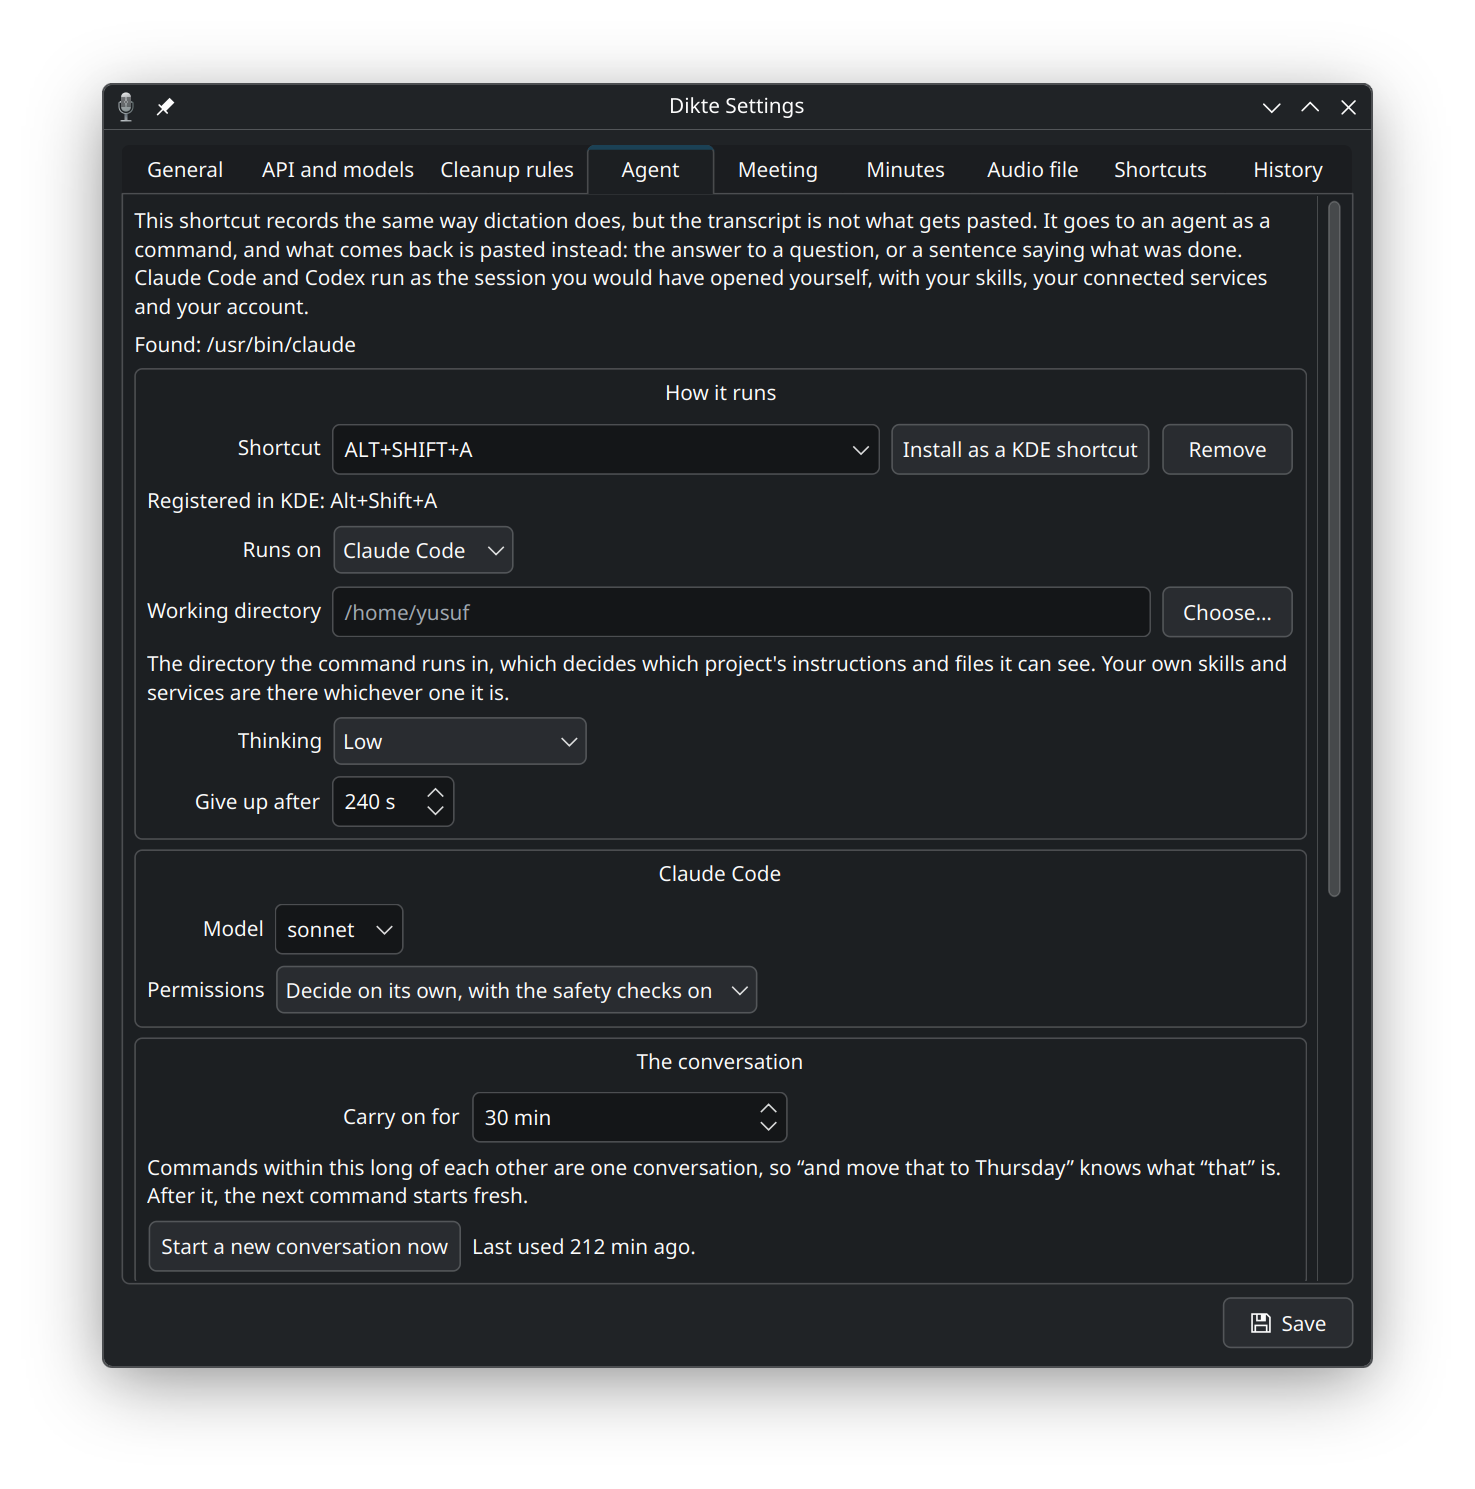
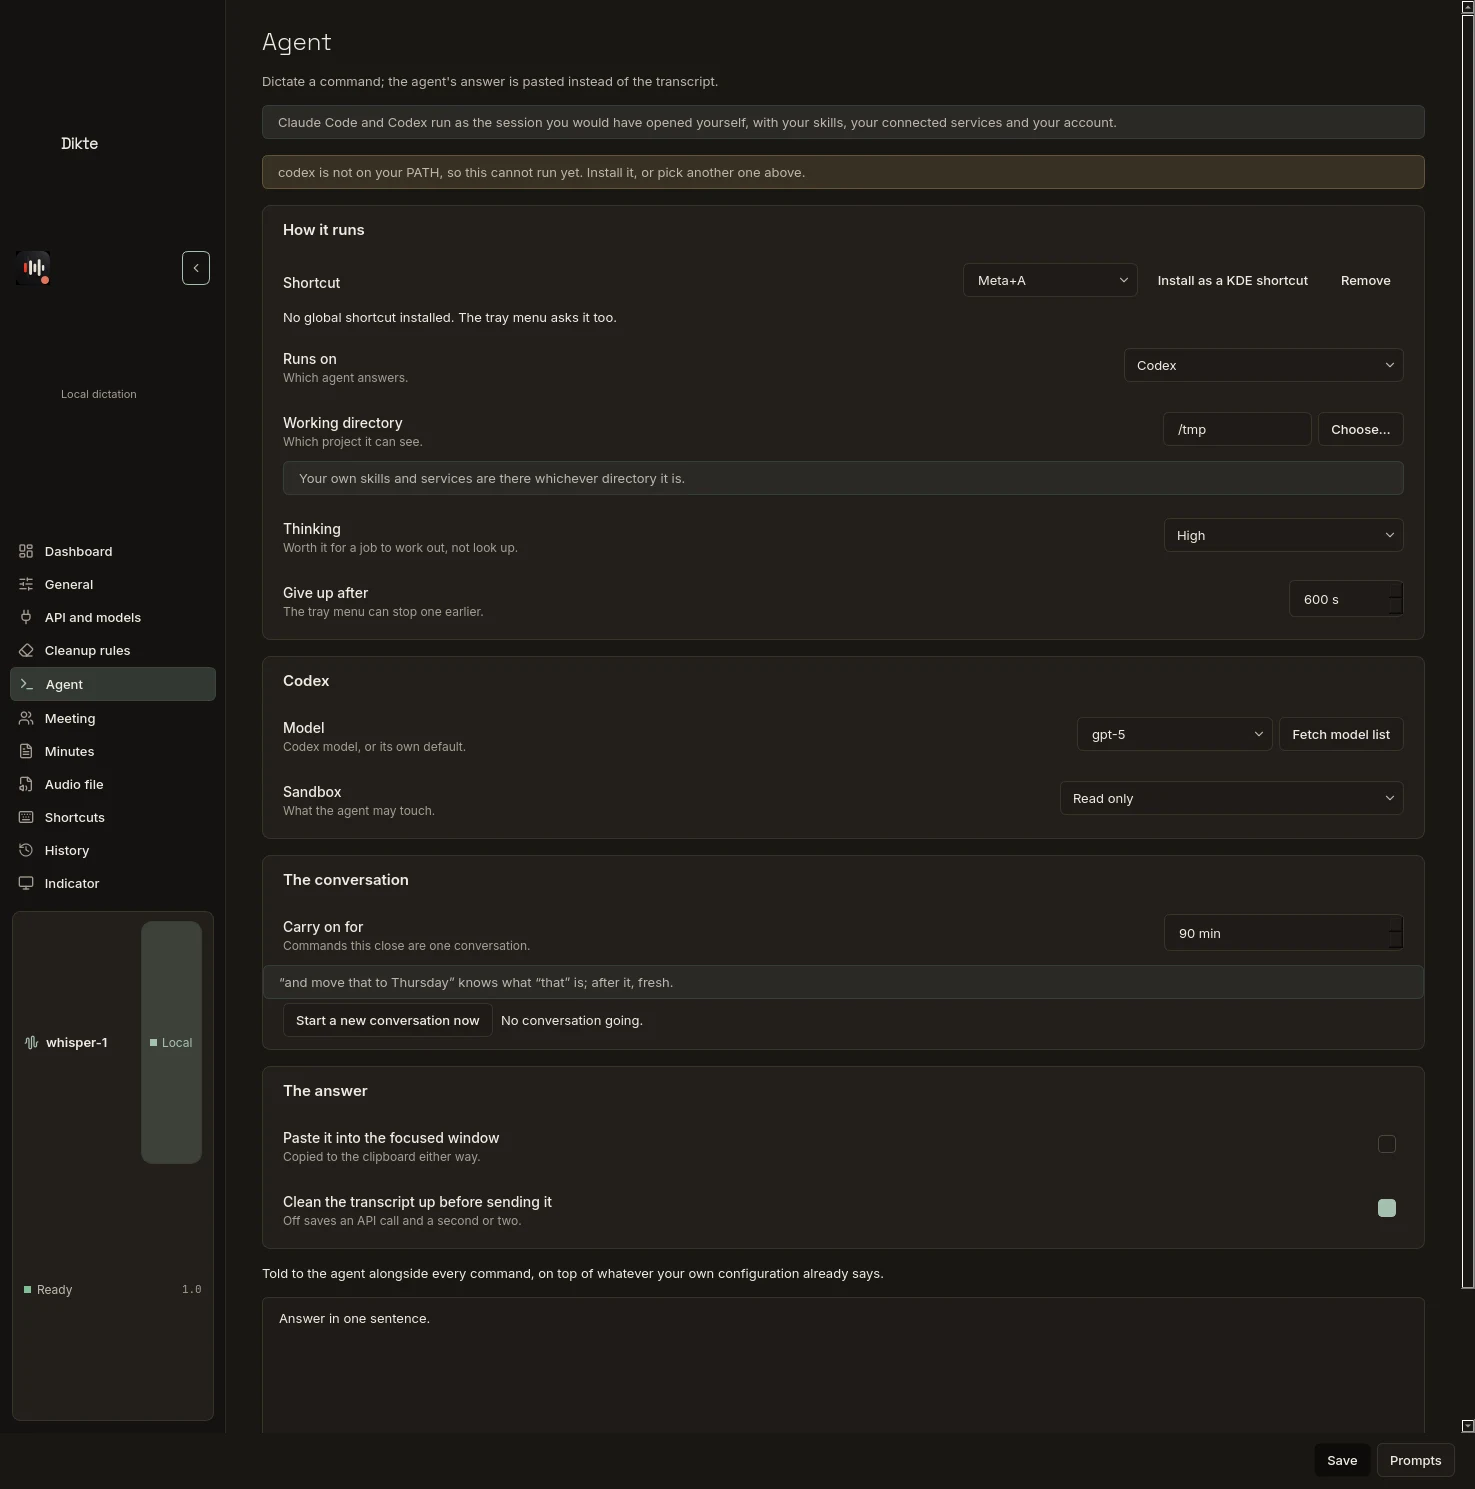
docs(readme): the READMEs show this product again, and one command keeps them honest
The seven images both READMEs embed were taken **2026-08-01**, before the return to Warm
Technical Minimalism. They showed a retired palette in a window shape the product no
longer has, so the first thing a reader sees was the one part of the repository that was
not about this product any more.

`tools/shoot_ui.py --readme` re-shoots them from the same window, fixtures and theme
plumbing the surface tour already uses: dark and English (what the embedded set has
always been — both READMEs point at the same seven files), 1475x1489 (the geometry every
previous file had, which the `<img>` tags are sized for), written straight to
`docs/*.webp` through Qt's own WebP encoder. No new dependency, and the `--check`
manifest is untouched: these seven are a subset of the pages the tour already captures.

**Reviewing the frames is what found the defect, and it was a fixture, not the product.**
The API page rendered three answers about one file: the provider row said
"Ready: gemma-3-4b-it-Q4_K_M.gguf", the model picker said "(downloaded)", and a red line
directly underneath said the same file "has not been downloaded yet". The cause is that
the tour patched `installed_llm_models()` — a list — while `ggml.have_model()` is a real
file check against a sandbox that holds no model files. The tour had been photographing
that contradiction in every run of the full surface tour too; one mock now makes the
three widgets agree.
[…]

diff --git a/tools/shoot_ui.py b/tools/shoot_ui.py
@@ -205,6 +205,30 @@ def expected_names():
     return [f"page{i:02d}" for i in range(page_count())] + list(NAMED_SURFACES)
 
 
+# The images both READMEs embed, by the shell page they show. Kept beside the rest of the
+# tour because they are the same claim — "this is what the product looks like today" —
+# and they had stopped making it: the embedded files were taken 2026-08-01, before the
+# return to Warm Technical Minimalism, so the README was showing a retired palette in a
+# window shape the product no longer has.
+README_SHOTS = (
+    ("settings-general", 1),
+    ("settings-api", 2),
+    ("settings-cleanup", 3),
+    ("settings-agent", 4),
+    ("settings-meeting", 5),
+    ("settings-audio-file", 7),
+    ("settings-shortcuts", 8),
+)
+# Every embedded file has been 1475x1489 since the first set, and the READMEs size their
+# <img> tags for it. A README is not the place to reflow a layout.
+README_SIZE = (1475, 1489)
+# Dark and English, which is what the embedded set has always been: both READMEs point at
+# these same seven files, so a Turkish shot would be wrong in one of the two.
+README_THEME = "dark"
+README_LANG = "en"
+WEBP_QUALITY = 88
+
+
 def _is_blank(path):
     """True when a frame holds a single colour, whatever the colour is."""
     from PyQt6.QtGui import QImage
@@ -295,7 +319,7 @@ def page_height(window, base=700):
     return needed
 
 
-def shoot(app, widget, path, width=None, height=None):
+def shoot(app, widget, path, width=None, height=None, quality=None):
     widget.show()
     if width is not None and height is not None:
         widget.resize(width, height)
@@ -303,10 +327,39 @@ def shoot(app, widget, path, width=None, height=None):
     widget.update()
     app.processEvents()
     app.processEvents()
-    ok = widget.grab().save(path)
+    frame = widget.grab()
+    # `quality` is the WebP encoder's; PNG has no such knob and Qt ignores it there.
+    ok = frame.save(path, None, quality) if quality is not None else frame.save(path)
     if not ok:
         raise RuntimeError(f"grab().save failed for {path}")
     return path
+
+
+def shoot_readme(app, conf, out_dir, size=README_SIZE):
+    """Write the images the READMEs embed, at the size they embed them.
+
+    The tour's own frames are 1000 px wide and exactly as tall as each page, because the
+    check that reads them asks whether a surface was drawn. The README shows one fixed
+    near-square window per tab in a grid, which is what these files have always been.
+    Same window and same fixtures, one fixed size instead of a measured one.
+    """
+    conf["ui_theme"] = README_THEME
+    theme.apply(README_THEME)
+    i18n.set_language(README_LANG)
+
+    window = DashboardWindow(conf)
+    written = []
+    for name, index in README_SHOTS:
+        window.resize(*size)
+        window.shell.set_page(index)
+        app.processEvents()
+        path = os.path.join(out_dir, f"{name}.webp")
+        shoot(app, window, path, size[0], size[1], quality=WEBP_QUALITY)
+        written.append(path)
+    window.close()
+    window.deleteLater()
+    app.processEvents()
+    return written
 
 
 def build_prompt_creator(parent):
@@ -348,13 +401,20 @@ def build_prompt_creator(parent):
 
 def main():
     parser = argparse.ArgumentParser()
-    parser.add_argument("--out", required=True)
+    parser.add_argument("--out", help="where the frames go; required unless --readme")
     parser.add_argument("--themes", default="light,dark")
     parser.add_argument("--langs", default="en,tr")
+    parser.add_argument("--readme", action="store_true",
+                        help="write the seven images the READMEs embed, into --out "
+                             "(default: docs/), instead of the full surface tour")
     parser.add_argument("--check", action="store_true",
                         help="assert every expected surface was drawn, and "
                              "exit non-zero when one was not")
     args = parser.parse_args()
+    if not args.out and not args.readme:
+        parser.error("--out is required unless --readme is given")
+    if args.readme:
+        args.out = args.out or "docs"
     themes = [t for t in args.themes.split(",") if t]
     langs = [l for l in args.langs.split(",") if l]
     os.makedirs(args.out, exist_ok=True)
@@ -380,6 +440,15 @@ def main():
                                               return_value=["ggml-small.bin"]))
         stack.enter_context(mock.patch.object(ggml, "installed_llm_models",
                                               return_value=["gemma-3-4b-it-Q4_K_M.gguf"]))
+        # `have_model()` is a real file check, and the sandbox holds no model files, so
+        # patching the *lists* alone left the frames contradicting themselves: the model
+        # picker said "(downloaded)" while the status line directly under it said the
+        # file "has not been downloaded yet" in red, and the provider row said "Ready".
+        # Three widgets, three answers about one file, and the tour was photographing it.
+        stack.enter_context(mock.patch.object(
+            ggml, "have_model",
+            lambda path: pathlib.Path(path).name in ("gemma-3-4b-it-Q4_K_M.gguf",
+                                                     "ggml-small.bin")))
         stack.enter_context(mock.patch.object(ggml, "installed_program",
                                               return_value="/usr/bin/shoot"))
         stack.enter_context(mock.patch.object(ggml, "installed_version",
@@ -436,6 +505,13 @@ def main():
             })
         except Exception:
             pass
+
+        if args.readme:
+            written = shoot_readme(app, conf, args.out)
+            print(f"wrote {len(written)} README images to {args.out}")
+            for path in written:
+                print(f"  {path}")
+            return 0
 
         count = 0
         for thm in themes:
